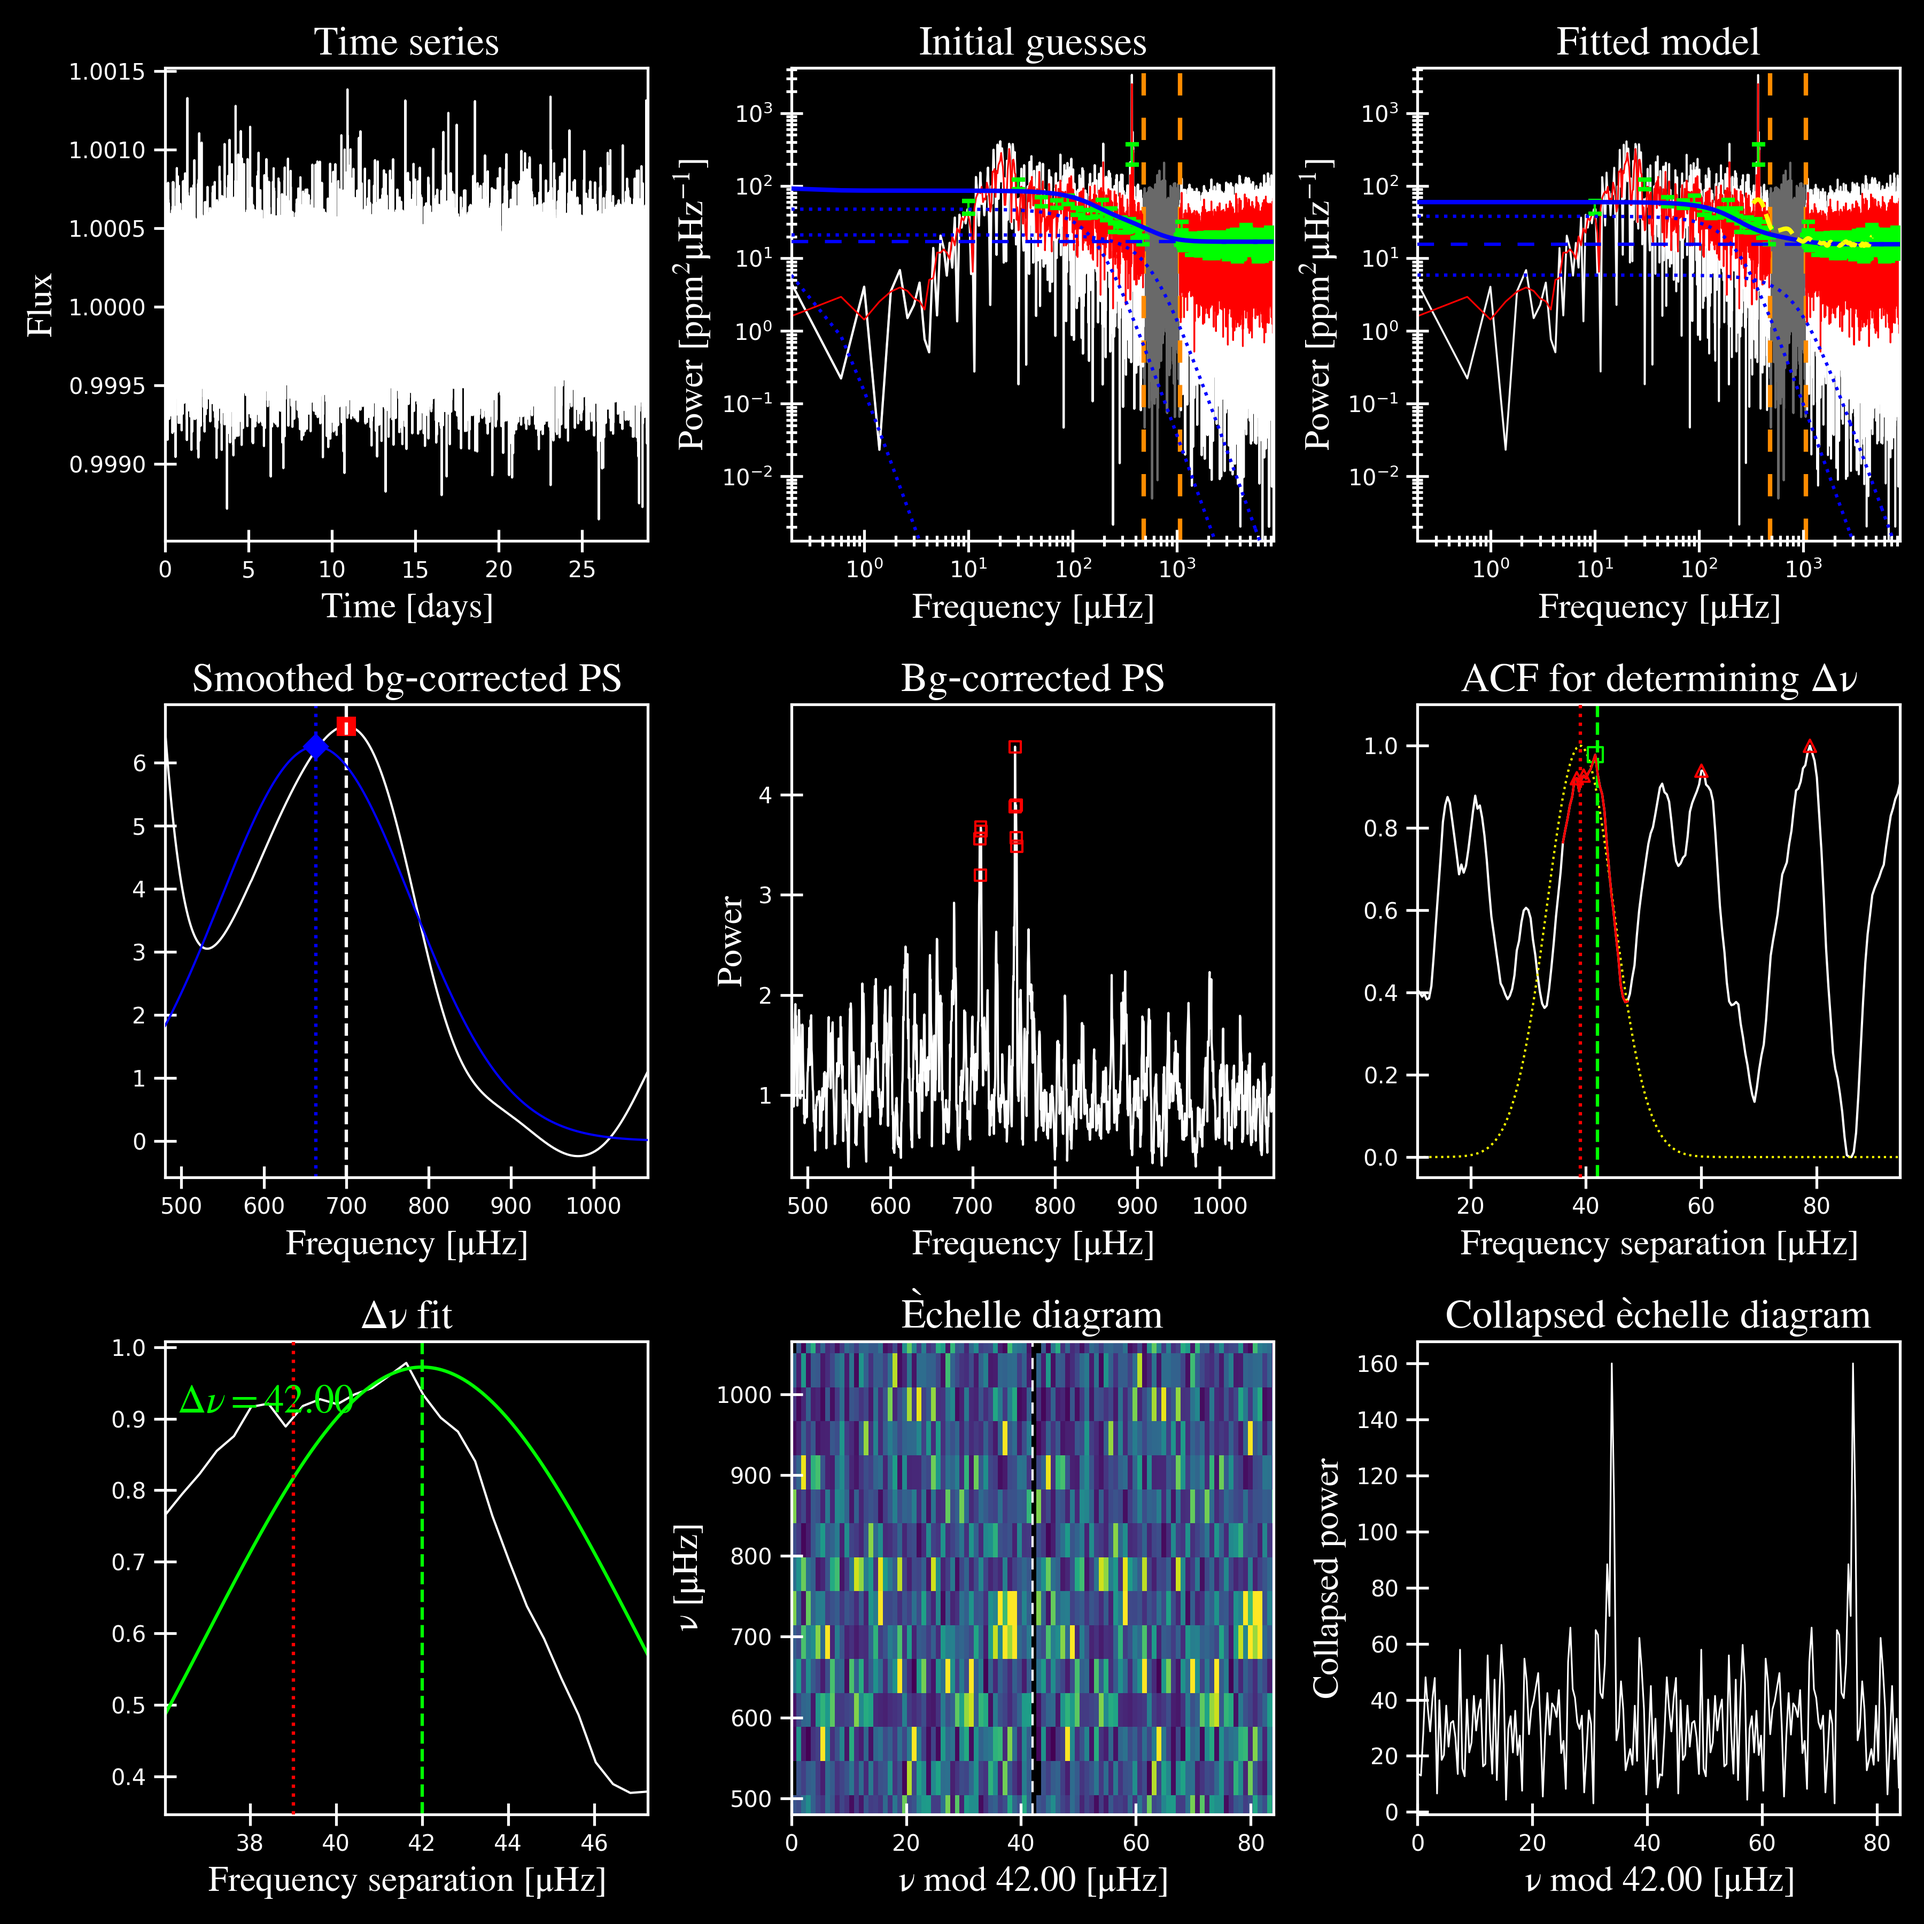
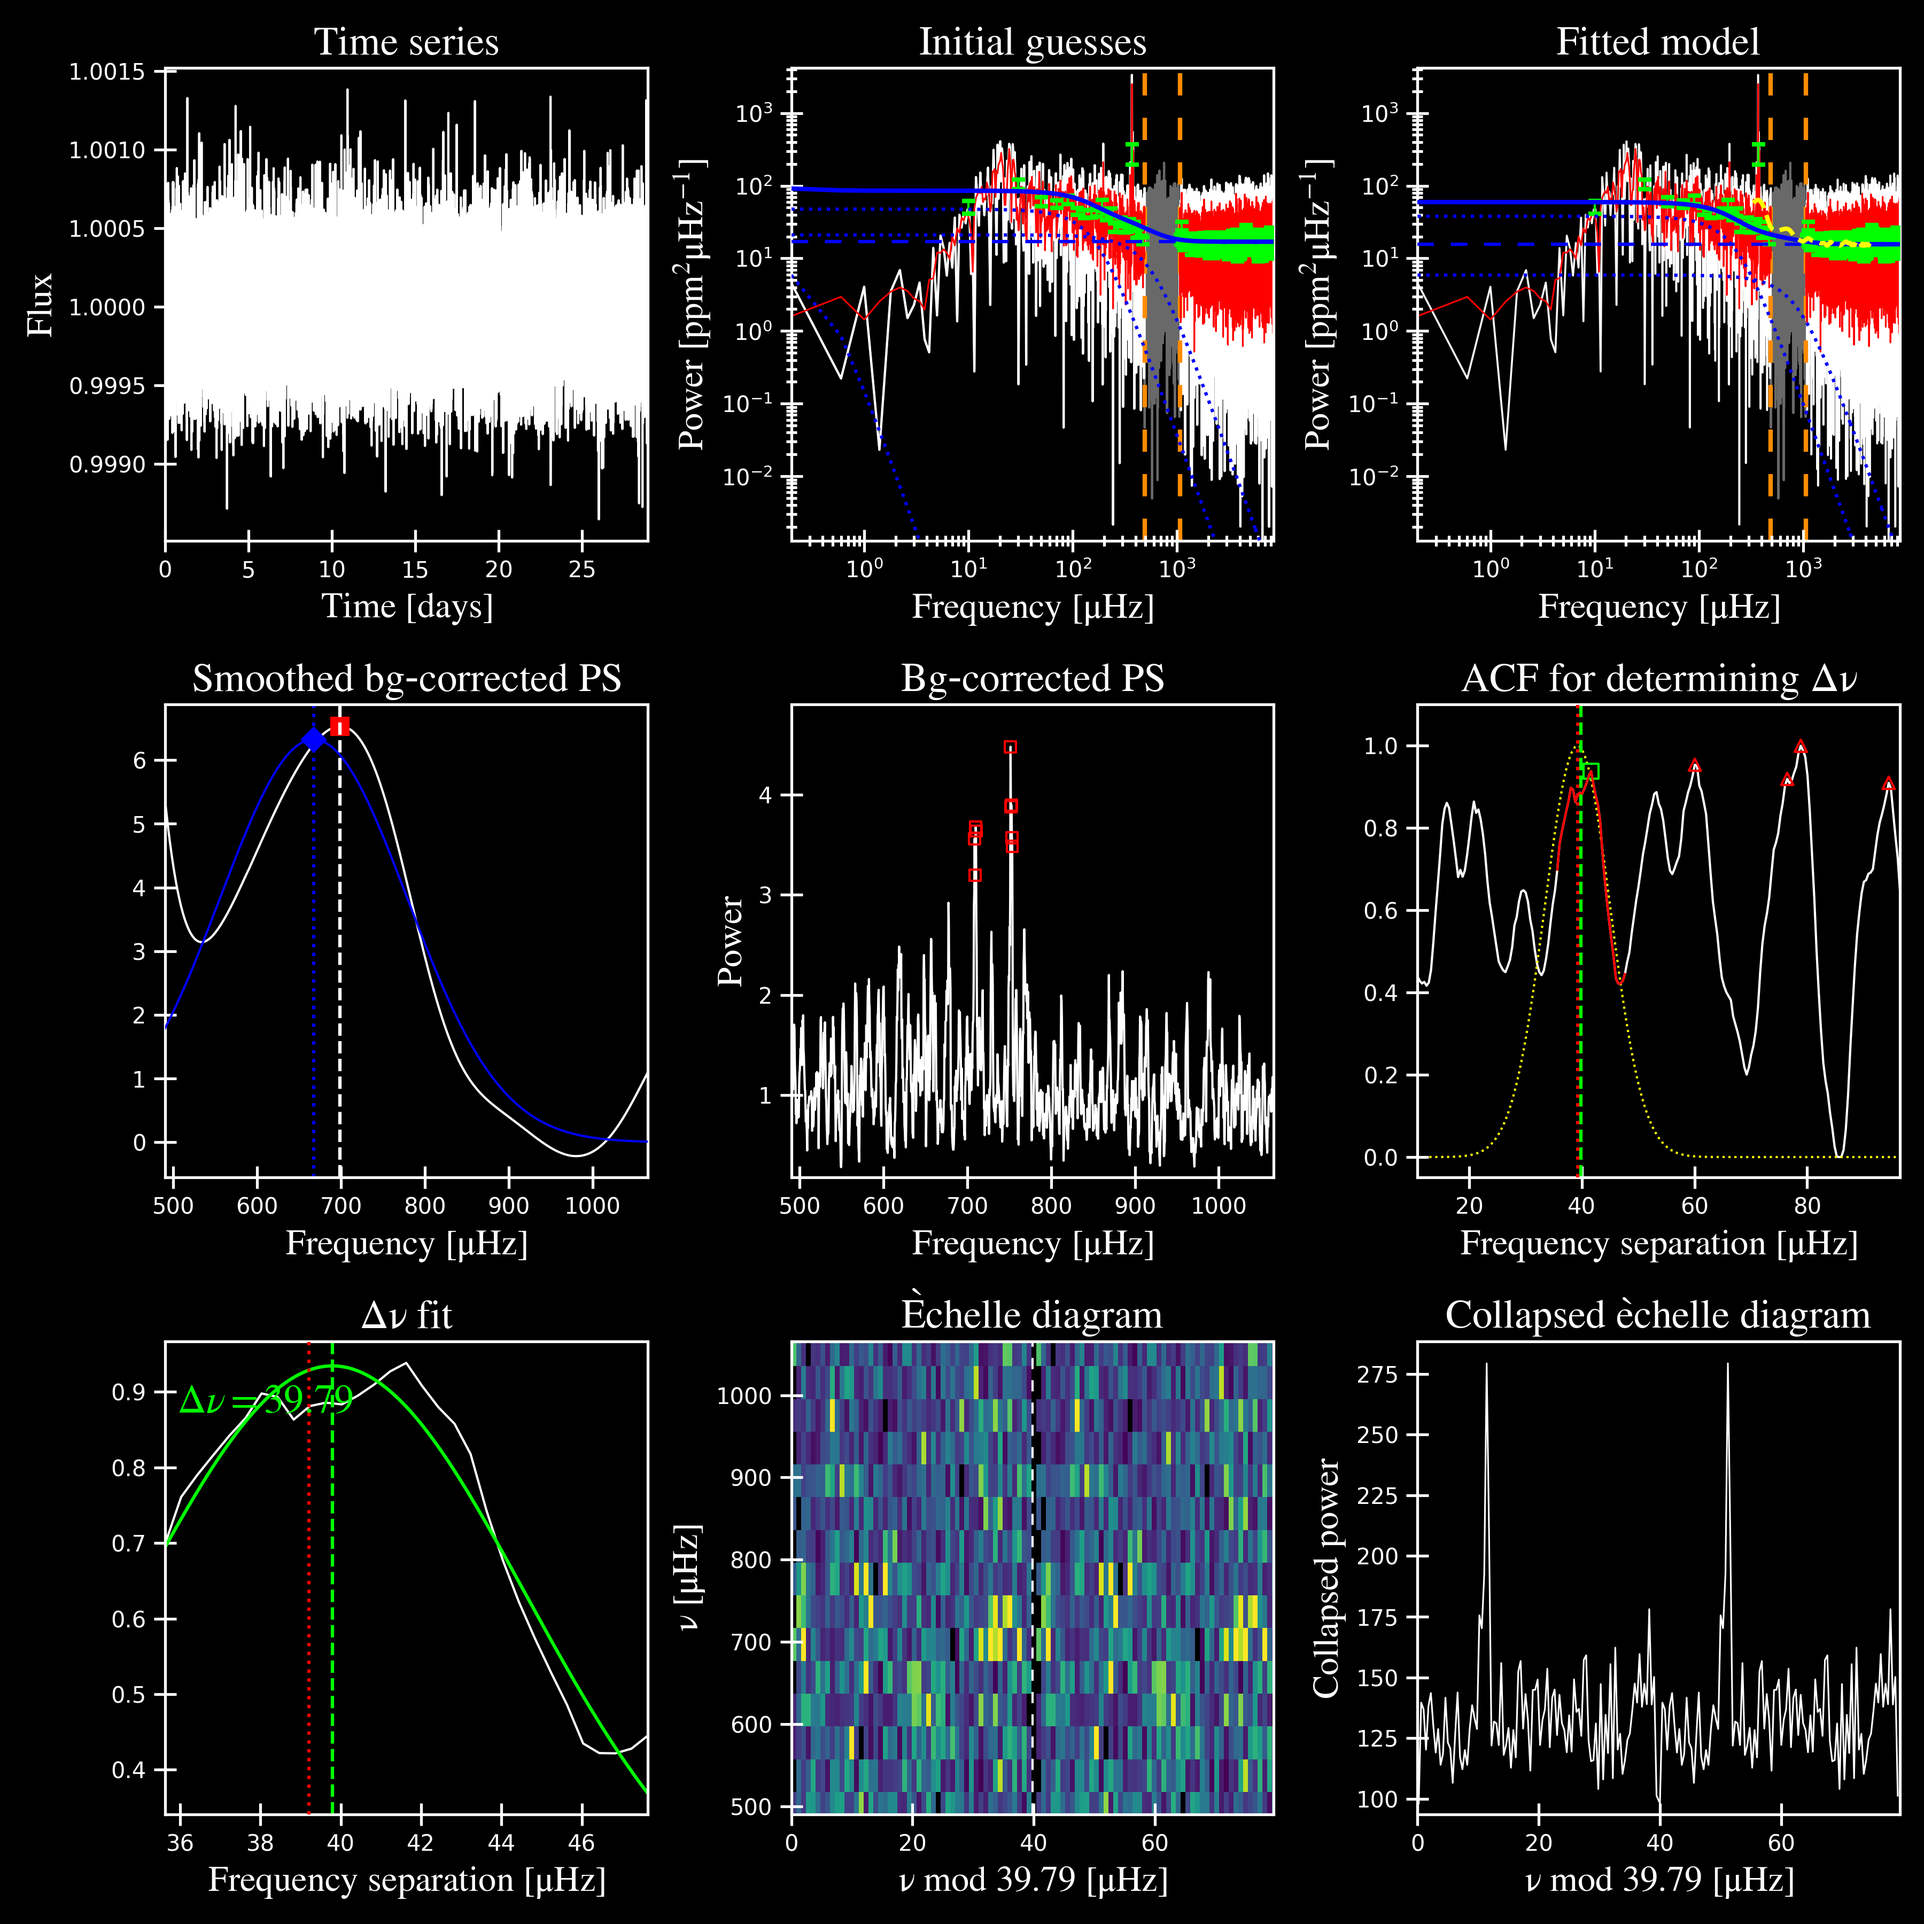
changed low SNR example; changed command and results for npeaks, ew & lp

diff --git a/docs/examples.rst b/docs/examples.rst
@@ -115,28 +115,33 @@ KIC 11618103 is an evolved RGB star, with numax of ~100 muHz.
 Low SNR Examples
 ****************
 
-KIC 6062024
+KIC 8801316
 +++++++++++
 
-KIC 6062024 is a subgiant, with numax ~1200 muHz.
+KIC 8801316 is a subgiant, with a numax ~1100 muHz. Although the data has low signal-to-noise ratio, this would be classified as a detection due to the following reasons:
+- there is a clear power excess as seen in panel 3
+- the power excess has a Gaussian shape as seen in panel 5 corresponding to the solar-like oscillations
+- the autocorrelation function (ACF) in panel 6 show periodic peaks
+- the echelle diagram in panel 8 shows the ridges, albeit faintly
+
 
 ``find_excess`` results:
 
-.. image:: figures/6062024_excess.png
+.. image:: figures/8801316_excess.png
   :width: 600
-  :alt: Find excess output plot for KIC 6062024.
+  :alt: Find excess output plot for KIC 8801316.
 
 ``fit_background`` results:
 
-.. image:: figures/6062024_background.png
+.. image:: figures/8801316_background.png
   :width: 600
-  :alt: Fit background output plot for KIC 6062024.
+  :alt: Fit background output plot for KIC 8801316.
 
 ``sampling`` results:
 
-.. image:: figures/6062024_samples.png
+.. image:: figures/8801316_samples.png
   :width: 600
-  :alt: Distributions of Monte-Carlo samples for KIC 6062024.
+  :alt: Distributions of Monte-Carlo samples for KIC 8801316.
 
 
 ====================
